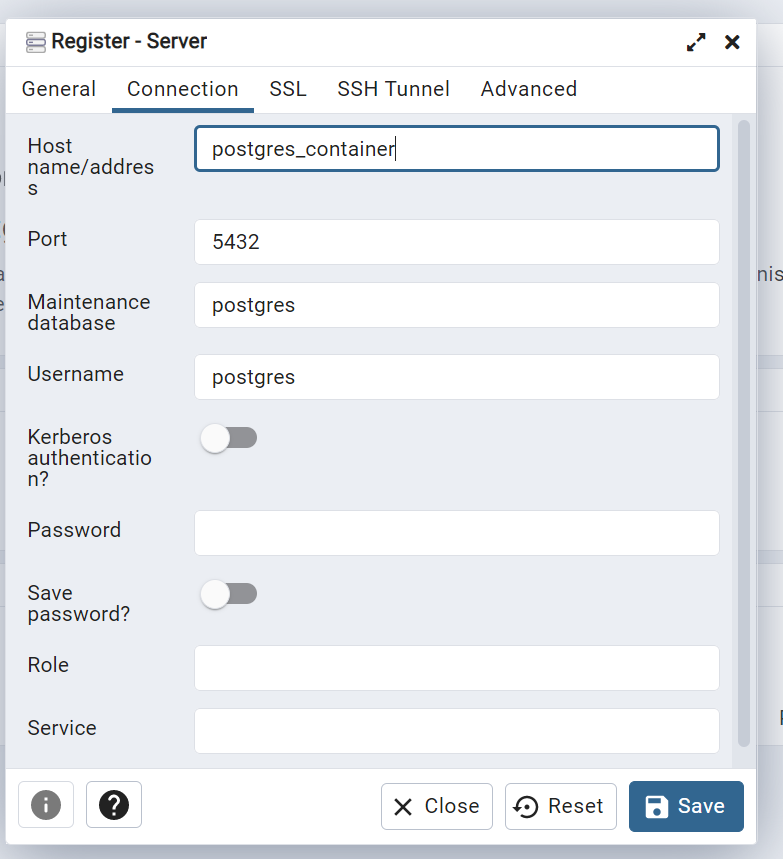
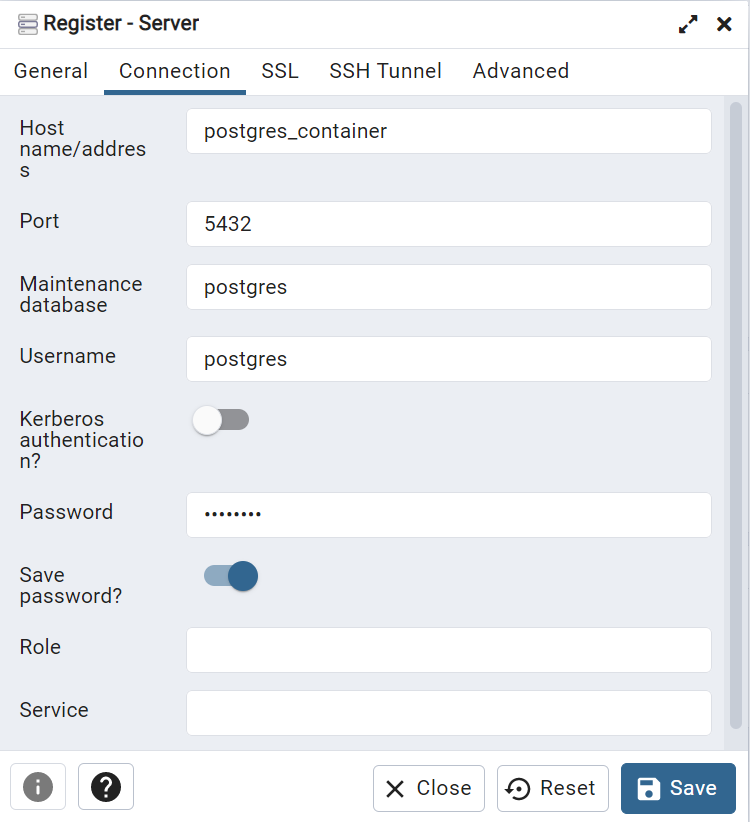
Updated instructions

diff --git a/README.md b/README.md
@@ -7,7 +7,7 @@ Follow the steps:
 5. Run->Run configurations->Create maven config as on screenshot->Run ![1.png](instructions/1.png)
 6. In inventory-backend via Terminal call `docker compose up -d` in order to launch DB. 
 7. PgAdmin can be accessed via http://localhost:5050/browser/.
-8. Register new Server there:![img.png](instructions/postgres_server.png)
+8. Register new Server there (name any, but in Connection tab fill in host and password as on screenshot, password is **postgres**):![img.png](instructions/postgres_server.png)
 9. Create new **inventory** database there: ![img.png](instructions/postgres_db.png)
-8. Open file [InventoryApplication](src/main/java/com/inventory/InventoryApplication.java)
-9. And click Run (green arrow) as on screenshot ![2.png](instructions/2.png)
+10. Open file [InventoryApplication](src/main/java/com/inventory/InventoryApplication.java)
+11. And click Run (green arrow) as on screenshot ![2.png](instructions/2.png)
